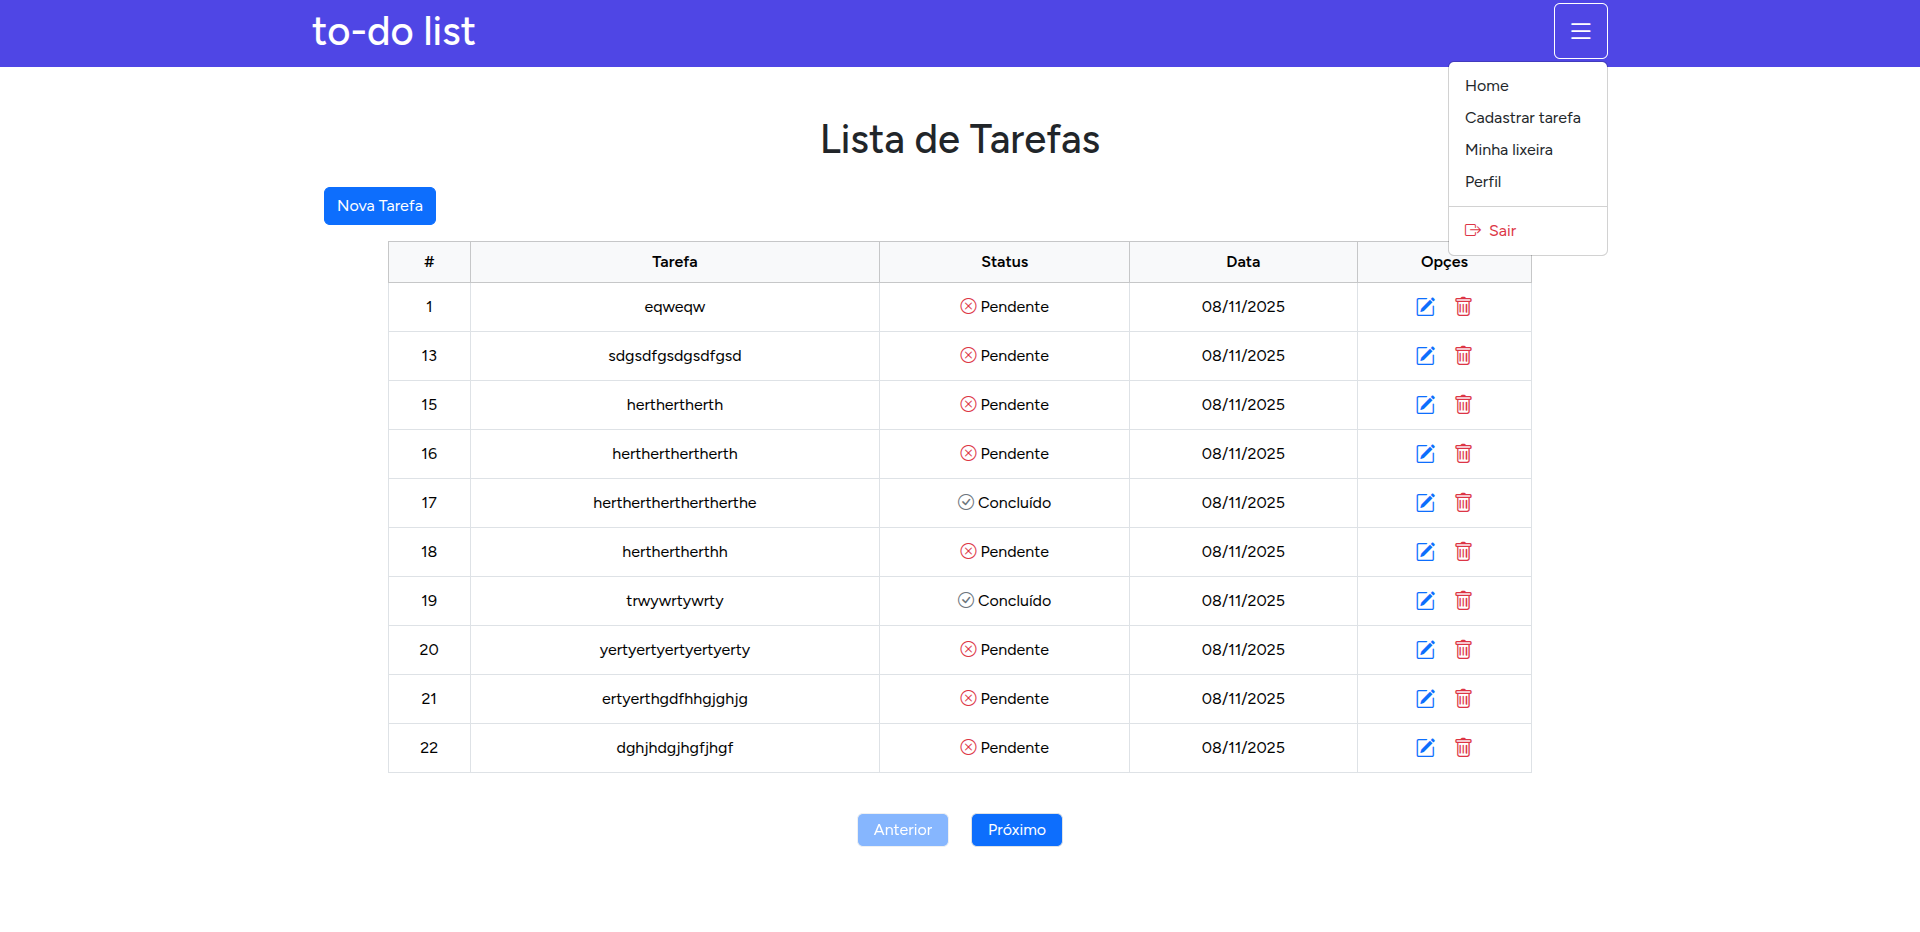
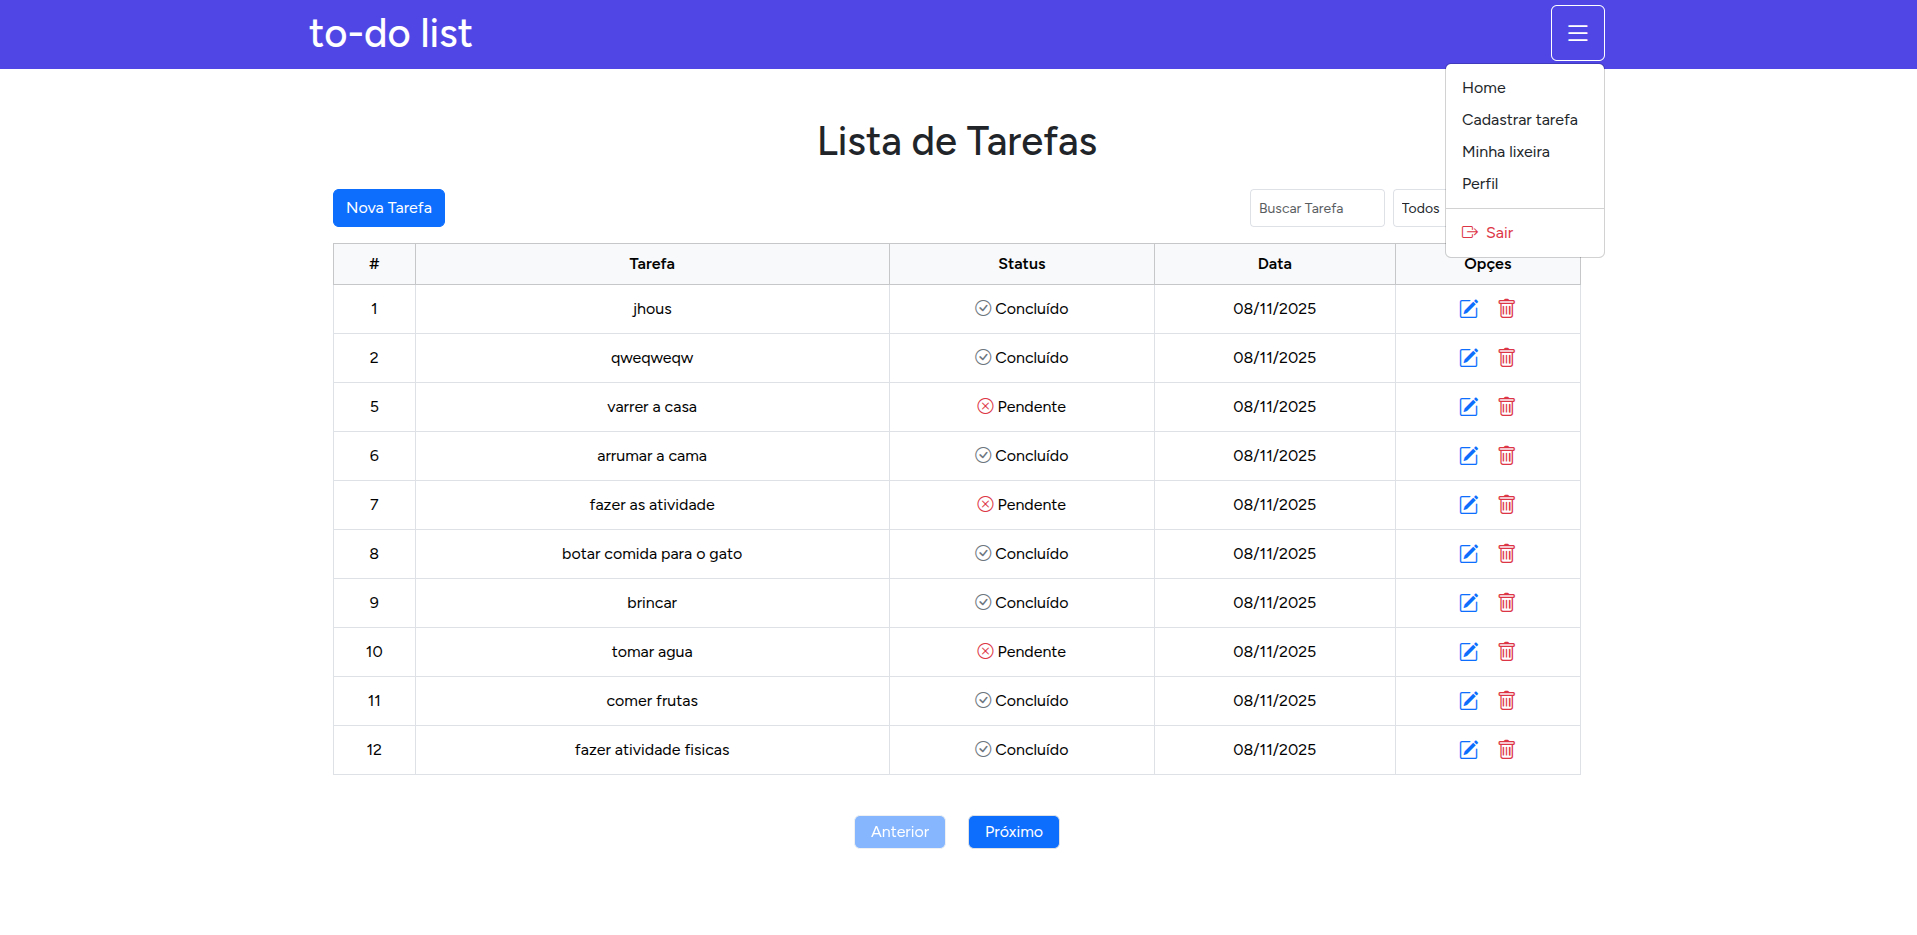
torca de img Readme

diff --git a/README.md b/README.md
@@ -1,5 +1,5 @@
 # 📝 To-do List Laravel
-![Home](./resources/img/img-teste2.png)
+![Home](./resources/img/img-teste1.png)
 
 
 Este projeto é uma aplicação de gerenciamento de tarefas desenvolvida com Laravel (frontend via Blade), com ambiente configurado via Docker.
